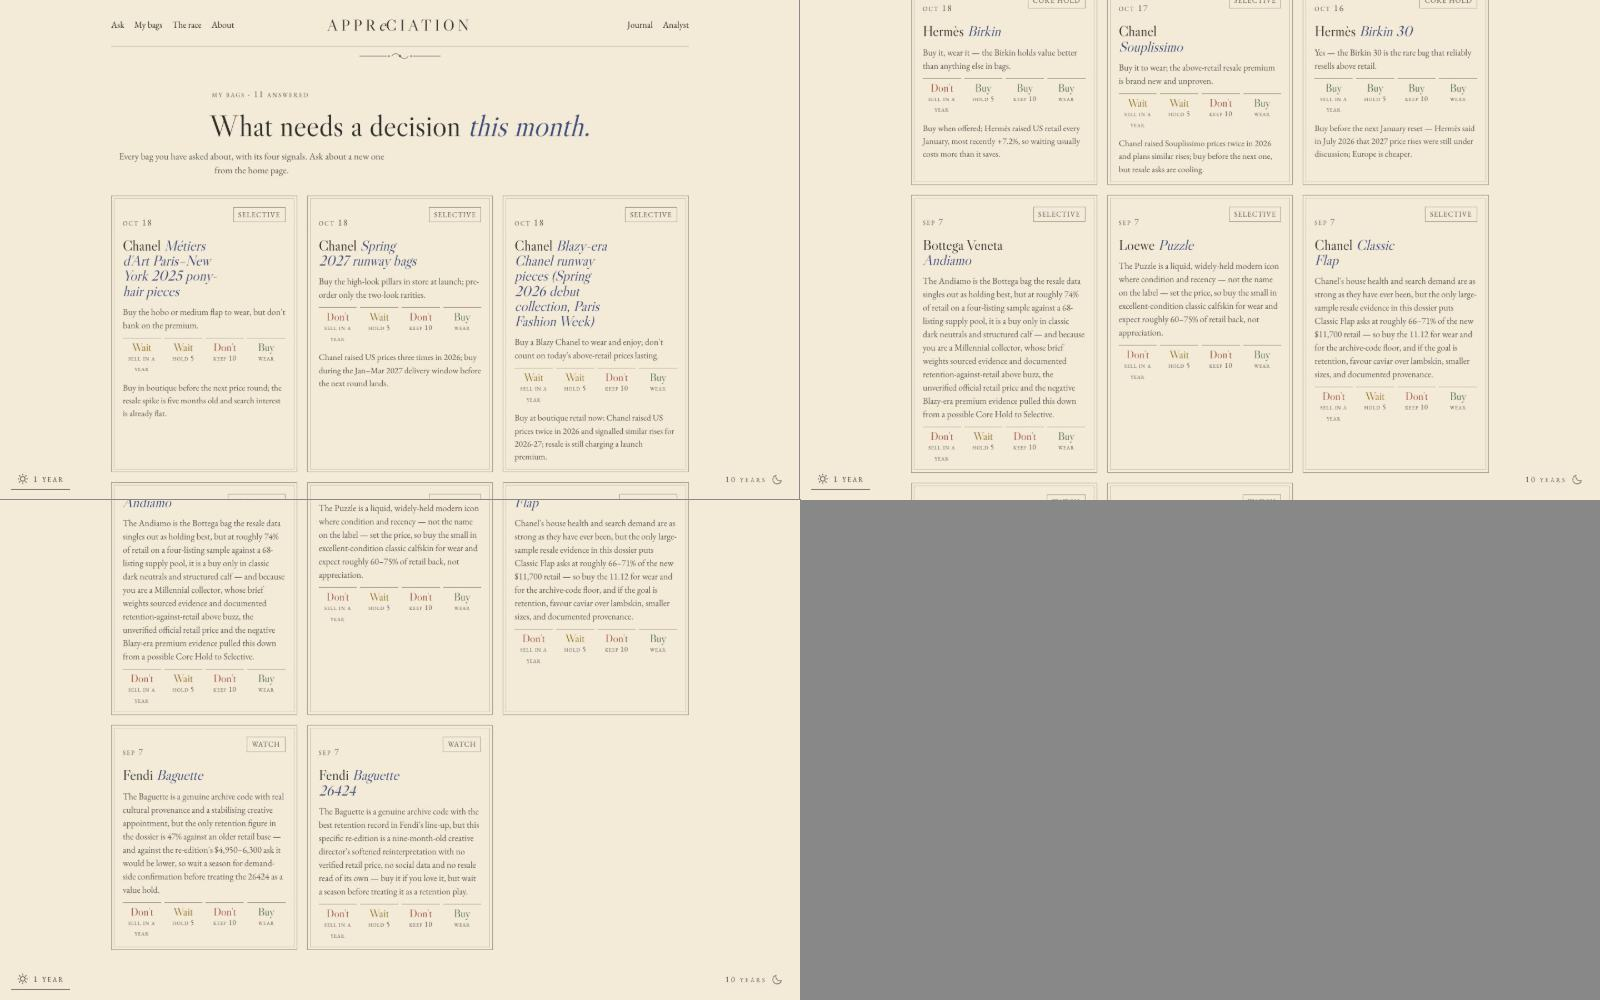
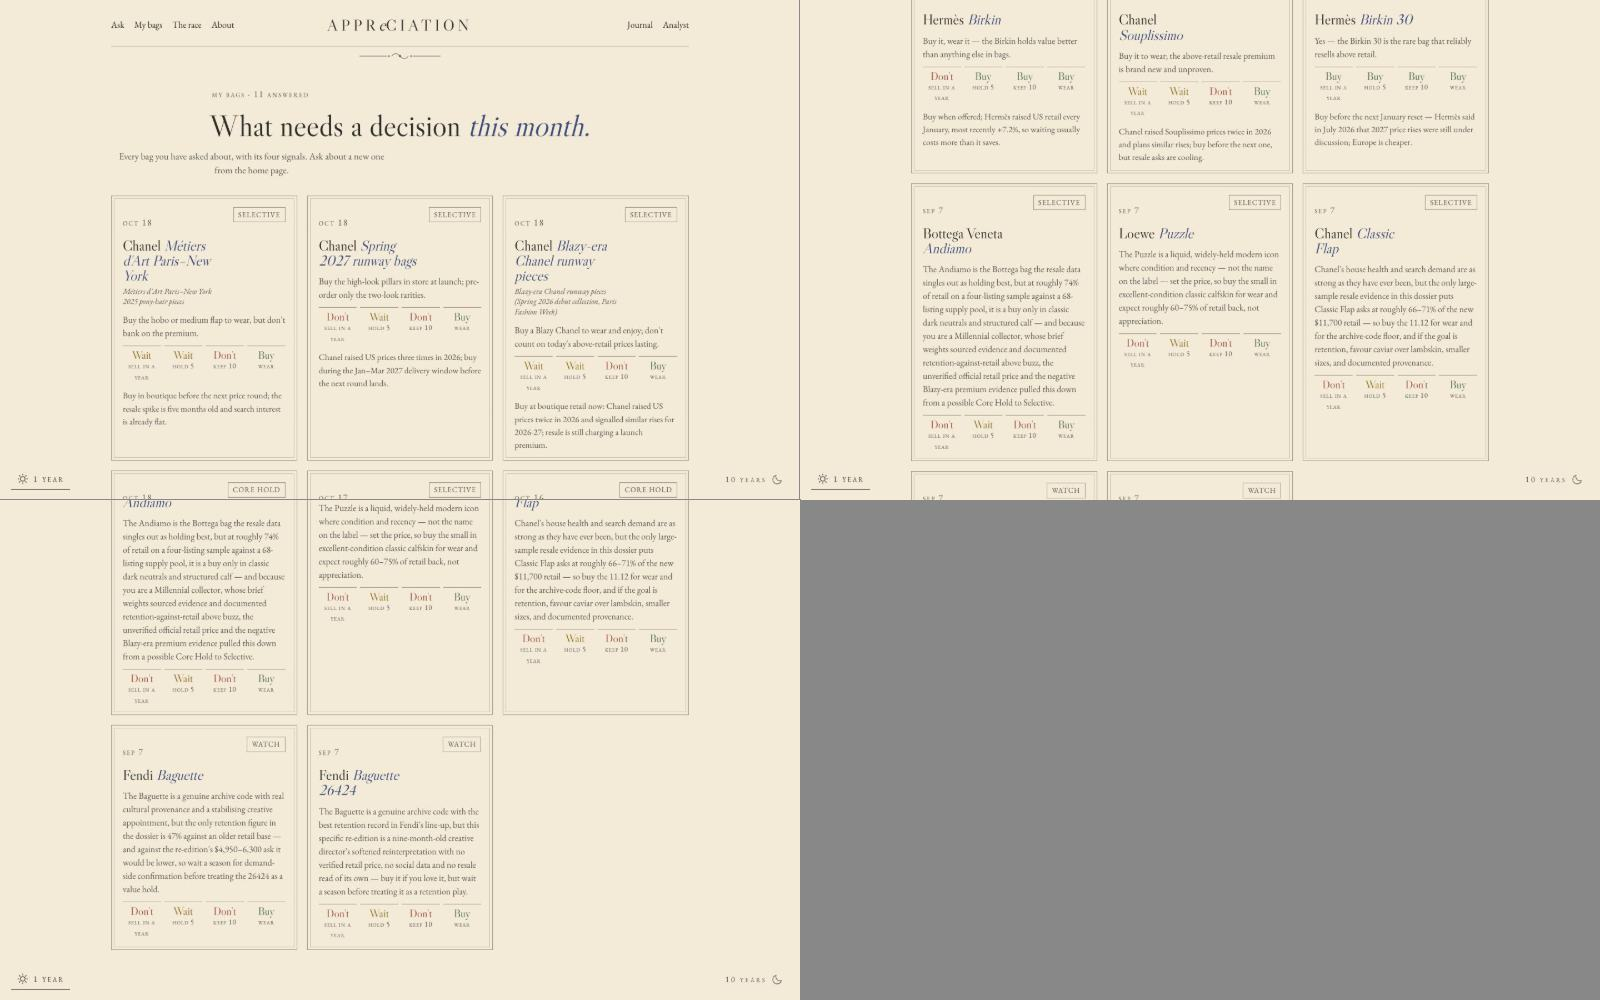
My bags: short card titles, full family name underneath

diff --git a/src/app/bags/page.tsx b/src/app/bags/page.tsx
@@ -4,6 +4,13 @@ import { toSignals } from "@/lib/cards";
 
 export const dynamic = "force-dynamic";
 
+/** Keep card titles to two lines: strip parentheses and cut at four words; the full name shows underneath. */
+function shortName(bag: string): string {
+  const base = bag.replace(/\s*\(.*?\)\s*/g, " ").replace(/\s+/g, " ").trim();
+  const words = base.split(" ");
+  return words.length > 4 ? words.slice(0, 4).join(" ") : base;
+}
+
 const W: Record<string, string> = { yes: "Buy", no: "Don't", wait: "Wait" };
 
 /** My bags: every bag the book has answered on, newest first. (A per-user closet with owned / watching comes with sign-in.) */
@@ -24,7 +31,7 @@ export default async function Bags() {
           return (
             <Link key={b.id} href={`/?brief=${b.id}`} className="bag">
               <div className="bag-top">
-                <div><p className="lab">{new Date(b.created_at).toLocaleDateString("en-US", { month: "short", day: "numeric" })}</p><h3>{b.house} <i>{b.bag}</i></h3></div>
+                <div><p className="lab">{new Date(b.created_at).toLocaleDateString("en-US", { month: "short", day: "numeric" })}</p><h3>{b.house} <i>{shortName(b.bag)}</i></h3>{shortName(b.bag) !== b.bag && <p className="spec">{b.bag}</p>}</div>
                 <span className="tag">{b.result.call}</span>
               </div>
               <p className="line">{b.result.plain_answer || b.result.one_line}</p>

diff --git a/src/app/globals.css b/src/app/globals.css
@@ -264,3 +264,5 @@ pre.dossier{white-space:pre-wrap;font-size:13px;line-height:1.5;background:var(-
   .verdict .spec{font-size:15px}
 }
 @media (max-width:768px){.mast{grid-template-columns:1fr;row-gap:6px;text-align:center}.mast nav,.mast .right{justify-content:center}}
+
+.bag .spec{margin:4px 0 0;font-size:14px;color:var(--ink-2);font-style:italic;line-height:1.35}
